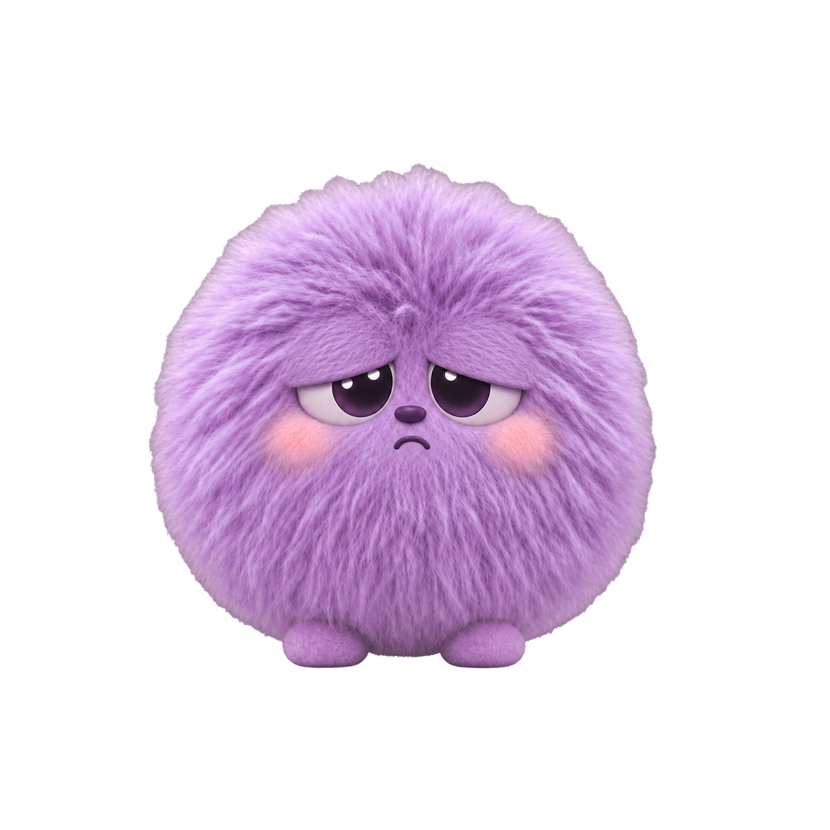
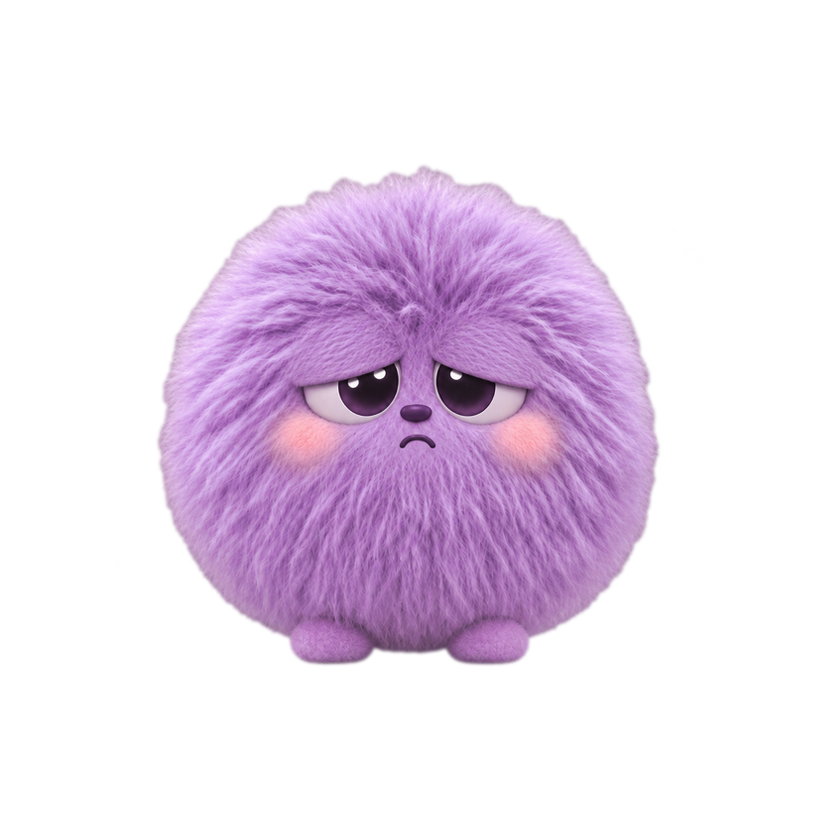
fix: 보라 캐릭터 '지침' 누끼 테두리 정리, 큰 캐릭터를 게이지 원 가운데로 맞춤

diff --git a/src/constants/characterTheme.ts b/src/constants/characterTheme.ts
@@ -46,7 +46,10 @@ export interface CharacterTheme {
   /** 시안 좌표 (헤더 아래 기준 px, 402px 폭 기준) */
   layout: {
     characterTop: number;
-    /** 가운데에서 얼마나 옮기는지 */
+    /**
+     * 가운데(201)에서 얼마나 옮기는지. 캐릭터 png 안 여백이 오른쪽이 더 넓어서
+     * 보이는 몸 가운데가 게이지 · 유리 원 가운데(x 195)에 오도록 맞춘 값
+     */
     characterLeftOffset: number;
     shadowLeft: number;
     shadowTop: number;
@@ -74,8 +77,8 @@ const PURPLE: CharacterTheme = {
   glass: true,
   layout: {
     characterTop: 36,
-    characterLeftOffset: -6.5,
-    shadowLeft: 92,
+    characterLeftOffset: -2.5,
+    shadowLeft: 94.5,
     shadowTop: 353,
     wave1Top: 237,
     wave2Top: 287,
@@ -103,8 +106,8 @@ const ORANGE: CharacterTheme = {
   glass: false,
   layout: {
     characterTop: 42,
-    characterLeftOffset: -4.5,
-    shadowLeft: 91,
+    characterLeftOffset: 0,
+    shadowLeft: 94.5,
     shadowTop: 343,
     wave1Top: 244,
     wave2Top: 292,
